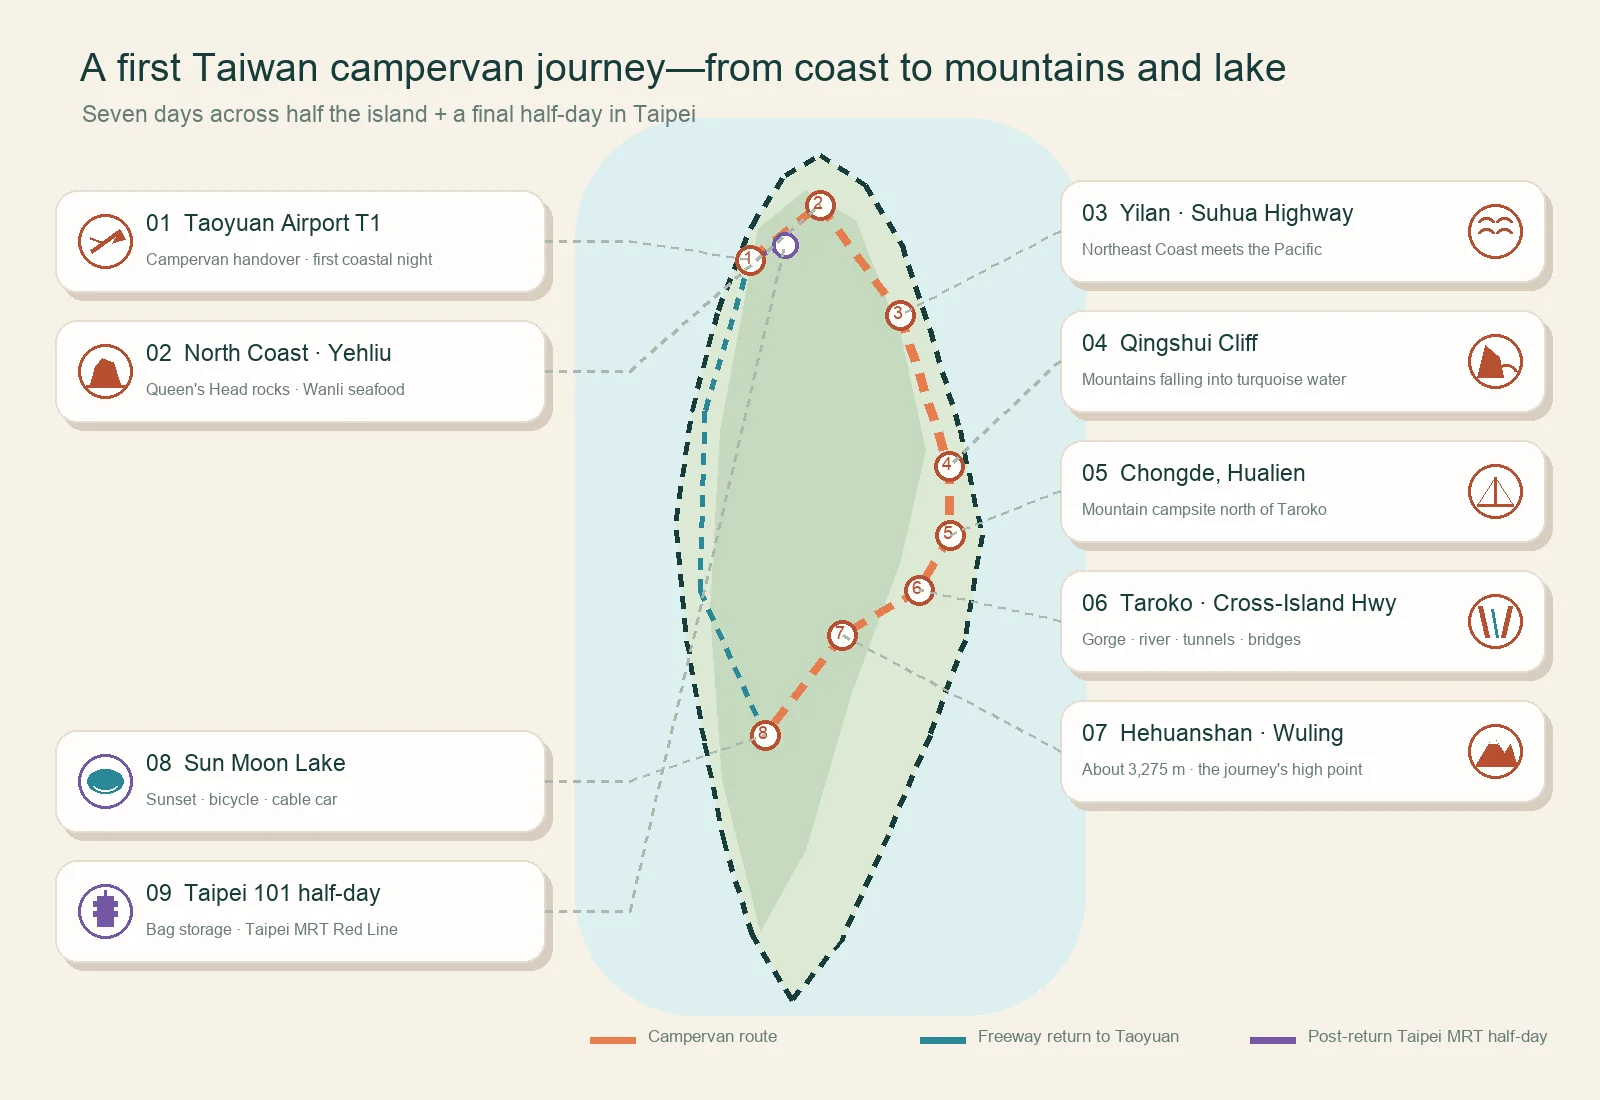
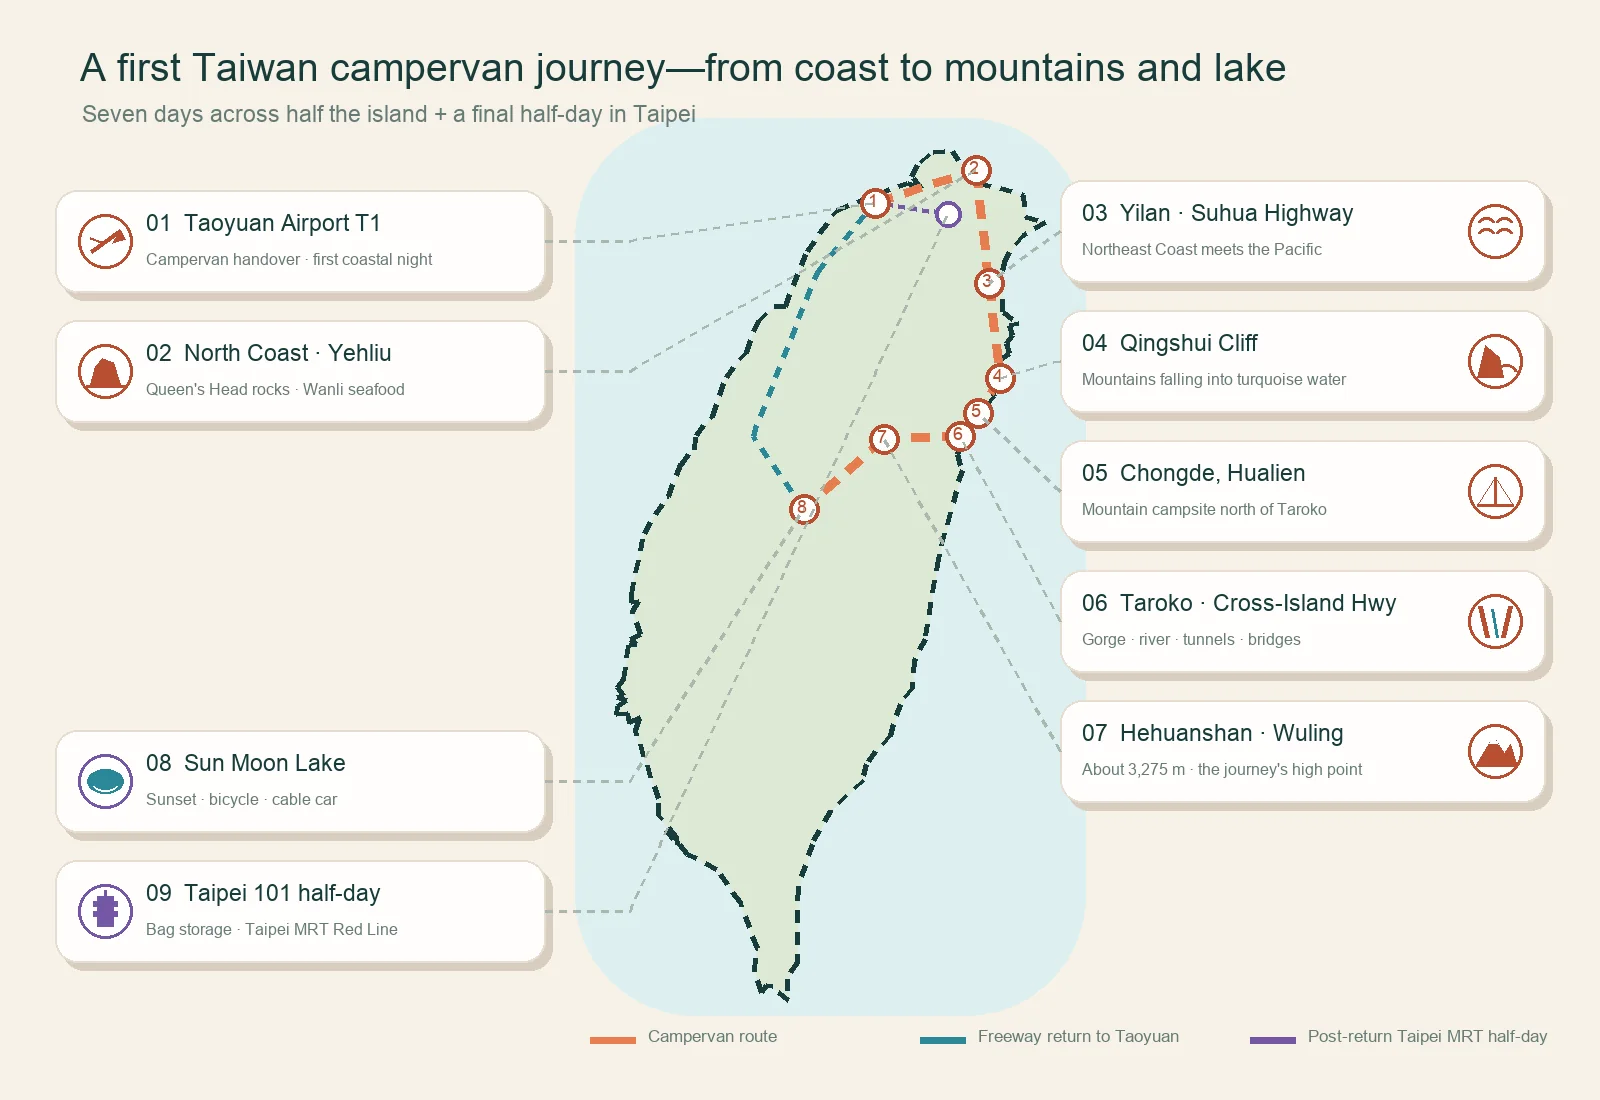
Use accurate Taiwan outline in guest route map

Changed region(s): [[0.375, 0.1236, 0.6562, 0.9273]]

diff --git a/scripts/make-british-australian-guest-route-map.py b/scripts/make-british-australian-guest-route-map.py
@@ -15,7 +15,6 @@ BG = "#F7F2E8"
 INK = "#173C3A"
 MUTED = "#667B76"
 LAND = "#DDE9D5"
-LAND_SHADE = "#C5D9BE"
 OCEAN = "#DDEFF1"
 ORANGE = "#E77D4F"
 ORANGE_DARK = "#B74F31"
@@ -23,6 +22,57 @@ PURPLE = "#7357A5"
 BLUE = "#2A8798"
 CARD = "#FFFDFC"
 SHADOW = "#D8CEC0"
+
+# Taiwan main-island coastline simplified from Natural Earth 1:10m geometry:
+# https://github.com/nvkelso/natural-earth-vector
+# Natural Earth data is in the public domain. The geometry is embedded so map
+# generation remains deterministic and does not need network access.
+TAIWAN_MAIN_ISLAND_LONLAT = [
+    (121.905772, 24.950100), (121.823497, 24.854926),
+    (121.806814, 24.778754), (121.814952, 24.644355),
+    (121.881847, 24.597805), (121.840831, 24.590318),
+    (121.855968, 24.550523), (121.830089, 24.519232),
+    (121.840017, 24.481350), (121.780040, 24.432685),
+    (121.758556, 24.332343), (121.772716, 24.309231),
+    (121.662852, 24.193101), (121.607432, 24.076850),
+    (121.629161, 24.014960), (121.521495, 23.658677),
+    (121.462169, 23.343004), (121.408865, 23.254584),
+    (121.400076, 23.145494), (121.347423, 23.083319),
+    (121.299571, 22.959174), (121.190278, 22.843166),
+    (121.177419, 22.778632), (121.029063, 22.657538),
+    (120.948253, 22.526801), (120.881358, 22.345933),
+    (120.879242, 22.055813), (120.835704, 21.987250),
+    (120.840343, 21.904608), (120.767426, 21.959296),
+    (120.737315, 21.966132), (120.714366, 21.937486),
+    (120.681651, 22.022528), (120.696951, 22.113227),
+    (120.621267, 22.295071), (120.511974, 22.424750),
+    (120.380870, 22.483873), (120.285167, 22.580064),
+    (120.333669, 22.525946), (120.327973, 22.551703),
+    (120.245779, 22.642524), (120.246349, 22.709906),
+    (120.142100, 22.980292), (120.166189, 23.031724),
+    (120.114106, 23.007636), (120.107921, 23.048570),
+    (120.055186, 23.043687), (120.059418, 23.075873),
+    (120.100434, 23.096991), (120.059418, 23.110663),
+    (120.089203, 23.117743), (120.059418, 23.151028),
+    (120.086925, 23.182034), (120.116527, 23.317897),
+    (120.148936, 23.322252), (120.120779, 23.341254),
+    (120.164577, 23.361711), (120.130544, 23.450995),
+    (120.157544, 23.491476), (120.125029, 23.489611),
+    (120.124262, 23.520021), (120.184418, 23.764390),
+    (120.292247, 23.911933), (120.350352, 24.038072),
+    (120.411876, 24.096910), (120.422048, 24.152167),
+    (120.493175, 24.230658), (120.558116, 24.385891),
+    (120.648936, 24.483873), (120.702159, 24.607001),
+    (120.778087, 24.665717), (120.826671, 24.666083),
+    (120.926036, 24.884711), (121.059337, 25.050238),
+    (121.378754, 25.157945), (121.443207, 25.136420),
+    (121.395763, 25.182807), (121.436290, 25.241441),
+    (121.497813, 25.278754), (121.580821, 25.283026),
+    (121.649669, 25.197089), (121.684418, 25.200507),
+    (121.676443, 25.179389), (121.703868, 25.156887),
+    (121.905121, 25.106594), (121.919200, 25.022040),
+    (122.005382, 25.001899), (121.905772, 24.950100),
+]
 
 
 def font(lang: str, size: int):
@@ -41,6 +91,17 @@ def dashed_line(draw, points, fill, width=8, dash=14, gap=12):
             end = min(pos + dash, length)
             draw.line((x1 + ux * pos, y1 + uy * pos, x1 + ux * end, y1 + uy * end), fill=fill, width=width)
             pos += dash + gap
+
+
+def taiwan_project(lonlat):
+    """Project Taiwan longitude/latitude into the central map panel."""
+    lon, lat = lonlat
+    min_lon, max_lon = 120.052419, 122.005382
+    min_lat, max_lat = 21.904608, 25.287421
+    left, top, width, height = 615, 150, 430, 850
+    x = left + (lon - min_lon) / (max_lon - min_lon) * width
+    y = top + (max_lat - lat) / (max_lat - min_lat) * height
+    return (round(x), round(y))
 
 
 def draw_icon(draw, center, kind, color):
@@ -109,32 +170,33 @@ def render(lang: str, output_name: str):
     draw.text((80, 45), title, font=font(lang, 42 if lang == "zh" else 39), fill=INK)
     draw.text((82, 101), sub, font=font(lang, 23), fill=MUTED)
 
-    # Schematic Taiwan silhouette; the requested dashed outline emphasizes that this is a travel diagram.
-    island = [
-        (820, 155), (865, 185), (902, 245), (930, 330), (960, 430),
-        (982, 535), (965, 640), (930, 735), (888, 835), (842, 940),
-        (792, 1000), (752, 935), (724, 842), (704, 740), (685, 630),
-        (676, 520), (692, 410), (718, 310), (752, 225), (785, 175)
-    ]
+    # Use a real Taiwan coastline as the travel-map base, then keep the soft,
+    # semi-transparent-looking fill and dotted outline requested for the story.
+    island = [taiwan_project(point) for point in TAIWAN_MAIN_ISLAND_LONLAT]
     draw.polygon(island, fill=LAND)
-    draw.polygon([(758, 228), (805, 190), (855, 220), (900, 335), (925, 450), (900, 560), (850, 695), (805, 850), (760, 930), (722, 780), (710, 610), (720, 430)], fill=LAND_SHADE)
-    dashed_line(draw, island + [island[0]], INK, width=5, dash=12, gap=10)
+    dashed_line(draw, island, INK, width=5, dash=12, gap=10)
 
     nodes = {
-        "airport": (750, 260),
-        "yehliu": (820, 205),
-        "yilan": (900, 315),
-        "qingshui": (949, 466),
-        "chongde": (950, 535),
-        "taroko": (919, 590),
-        "wuling": (842, 635),
-        "sunmoon": (765, 735),
-        "taipei": (785, 245),
+        "airport": taiwan_project((121.2328, 25.0777)),
+        "yehliu": taiwan_project((121.6906, 25.2059)),
+        "yilan": taiwan_project((121.7530, 24.7570)),
+        "qingshui": taiwan_project((121.8000, 24.3800)),
+        "chongde": taiwan_project((121.7000, 24.2400)),
+        "taroko": taiwan_project((121.6200, 24.1500)),
+        "wuling": taiwan_project((121.2750, 24.1370)),
+        "sunmoon": taiwan_project((120.9100, 23.8600)),
+        "taipei": taiwan_project((121.5654, 25.0339)),
     }
 
     main_route = [nodes[k] for k in ("airport", "yehliu", "yilan", "qingshui", "chongde", "taroko", "wuling", "sunmoon")]
     dashed_line(draw, main_route, ORANGE, width=9, dash=18, gap=13)
-    dashed_line(draw, [nodes["sunmoon"], (700, 590), (705, 410), nodes["airport"]], BLUE, width=5, dash=11, gap=10)
+    return_route = [
+        nodes["sunmoon"],
+        taiwan_project((120.6800, 24.1500)),
+        taiwan_project((120.9700, 24.8000)),
+        nodes["airport"],
+    ]
+    dashed_line(draw, return_route, BLUE, width=5, dash=11, gap=10)
     dashed_line(draw, [nodes["airport"], nodes["taipei"]], PURPLE, width=5, dash=6, gap=6)
 
     for i, p in enumerate(main_route, 1):
